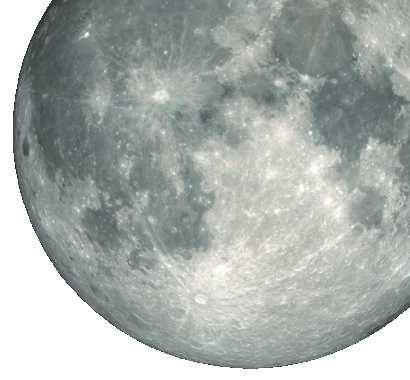
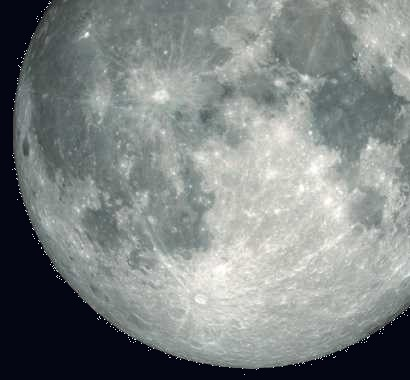
시험 문항1 행성 크기를 상대 지름 비율로, 달 사진 배경 제거
Claude-Session: https://claude.ai/code/session_017FRPJtmU3JbLjMGFwugVEE

Changed region(s): [[0.0, 0.0, 1.0, 1.0]]

diff --git a/index.html b/index.html
@@ -671,7 +671,7 @@ const DOC_T1=`<div class="doc"><h4>【자료 1-가】 천체 가·나 관측 결
 const DOC_T2=`<div class="doc"><h4>【자료 1-나】 천체 다·라·마 관측 결과</h4><div class="twrap"><table class="t"><tr><th>천체</th><th>관측 결과</th></tr><tr><td>다</td><td style="text-align:left">어느 행성 주위를 공전한다.</td></tr><tr><td>라</td><td style="text-align:left">태양 주위를 공전하며 화성과 목성 사이에서 주로 관측된다. 작고 불규칙한 암석 천체이다.</td></tr><tr><td>마</td><td style="text-align:left">얼음과 먼지로 이루어져 있고 긴 궤도로 태양 주위를 공전한다. 태양에 가까워지면 꼬리가 나타난다.</td></tr></table></div></div>`;
 const DOC_T3=`<div class="doc"><h4>【자료 2】 우주기상센터의 관측 기록</h4><div class="twrap"><table class="t"><tr><th>항목</th><th>A 시기</th><th>B 시기</th></tr><tr><td>태양의 흑점 수</td><td>많음</td><td>적음</td></tr><tr><td>홍염과 플레어</td><td>자주 발생</td><td>드물게 발생</td></tr><tr><td>태양풍</td><td>강함</td><td>비교적 약함</td></tr><tr><td>오로라</td><td>평소보다 낮은 위도에서도 관측</td><td>극지방에서 드물게 관측</td></tr><tr><td>GPS 수신 오류 신고</td><td>크게 증가</td><td>거의 없음</td></tr></table></div><p>우주기상센터는 기록을 검토한 뒤, 태양 활동을 지속적으로 관측하면서 <b>인공위성·송전 설비 등 중요 설비 보호 조치</b>를 하고 <b>우주기상 예보를 강화</b>하기로 하였다.</p></div>`;
 const EXAM=[
- {no:1,pts:2,title:"행성의 특징 비교하기",docs:DOC_T1,imgs:["earth","jupiter"],
+ {no:1,pts:2,title:"행성의 특징 비교하기",docs:DOC_T1,imgs:["earth","jupiter"],scale:[34,300],labels:["천체 가 (상대 지름 0.9)","천체 나 (상대 지름 11.2)"],
   q:`【자료 1-가】를 근거로 천체 <b>가</b>와 <b>나</b>를 각각 지구형 행성과 목성형 행성으로 분류하고, 두 천체의 특징을 <b>두 가지 이상 비교</b>하여 분류한 까닭을 서술하시오.`,
   spec:{min:60,groups:[{name:"지구형 분류",words:["지구형"]},{name:"목성형 분류",words:["목성형"]},{name:"비교 근거 ① 지름 또는 밀도",words:["지름","밀도","크기"]},{name:"비교 근거 ② 위성 또는 고리",words:["위성","고리"]}],compare:true},
   ai:"[문항 1 · 2점] 자료: 가(상대 지름 0.9, 밀도 5.2, 위성 없음, 고리 없음) / 나(상대 지름 11.2, 밀도 1.3, 위성 많음, 고리 있음). 채점 기준: 상(2점)=가를 지구형, 나를 목성형으로 정확히 분류하고, 자료에 제시된 특징 두 가지 이상을 비교하여 분류 근거를 구체적으로 설명 / 중(1점)=두 천체의 유형은 정확히 분류했으나 비교한 특징이 한 가지이거나 자료와 분류 근거의 연결이 부족 / 하(0점)=유형을 정확히 분류하지 못하거나 근거 없음. 근거는 반드시 표의 숫자·내용에서 나와야 함."},
@@ -944,7 +944,8 @@ function renderExam(){
     <button class="btn-p" id="exStart" style="width:100%;margin-top:14px">문항 1부터 시작 ▶</button></div></div>`;
  }else{
    const e=EXAM[examPage-1], sv=S.exam[e.no]||{};
-   body=`<div class="exam-wrap"><div>${e.docs}<div class="figs c${e.imgs.length}" style="margin-top:12px">${e.imgs.map(i=>IMG(i,'','sq')).join("")}</div></div>
+   const imgBlock=e.scale?`<div style="display:flex;align-items:center;justify-content:center;gap:22px;margin-top:12px;background:#000;border:1.5px solid var(--line);border-radius:20px;padding:18px">${e.imgs.map((i,j)=>`<div style="text-align:center;flex:0 0 auto"><img src="img/${i}.jpg" alt="" style="width:${e.scale[j]}px;max-width:40vw;border-radius:50%;display:block;margin:0 auto"><div class="small" style="margin-top:6px">${e.labels?e.labels[j]:""}</div></div>`).join("")}</div>`:`<div class="figs c${e.imgs.length}" style="margin-top:12px">${e.imgs.map(i=>IMG(i,'','sq')).join("")}</div>`;
+   body=`<div class="exam-wrap"><div>${e.docs}${imgBlock}</div>
    <div class="card" style="margin:0"><span class="tag">문항 ${e.no} · ${e.pts}점</span><h3 style="margin:8px 0;font-size:1.4rem">${e.no}. ${e.title}</h3><p class="s-body" style="font-size:clamp(1.05rem,1.3vw,1.25rem)">${e.q}</p>
     <textarea id="et" style="min-height:${e.no===3?260:180}px" placeholder="자료의 숫자·내용을 근거로, '왜냐하면/따라서'로 이어지는 완전한 문장으로.">${esc(sv.t||"")}</textarea>
     <div style="display:flex;gap:8px;margin-top:10px;flex-wrap:wrap"><button class="btn-p" id="echk" style="flex:1">자동 점검</button><button class="btn-s aibtn" id="eai" style="flex:1" hidden>🤖 AI 코치 피드백</button><button class="btn-s" id="esub" style="flex:1">제출 ${sv.t?"(재제출)":""}</button></div>
